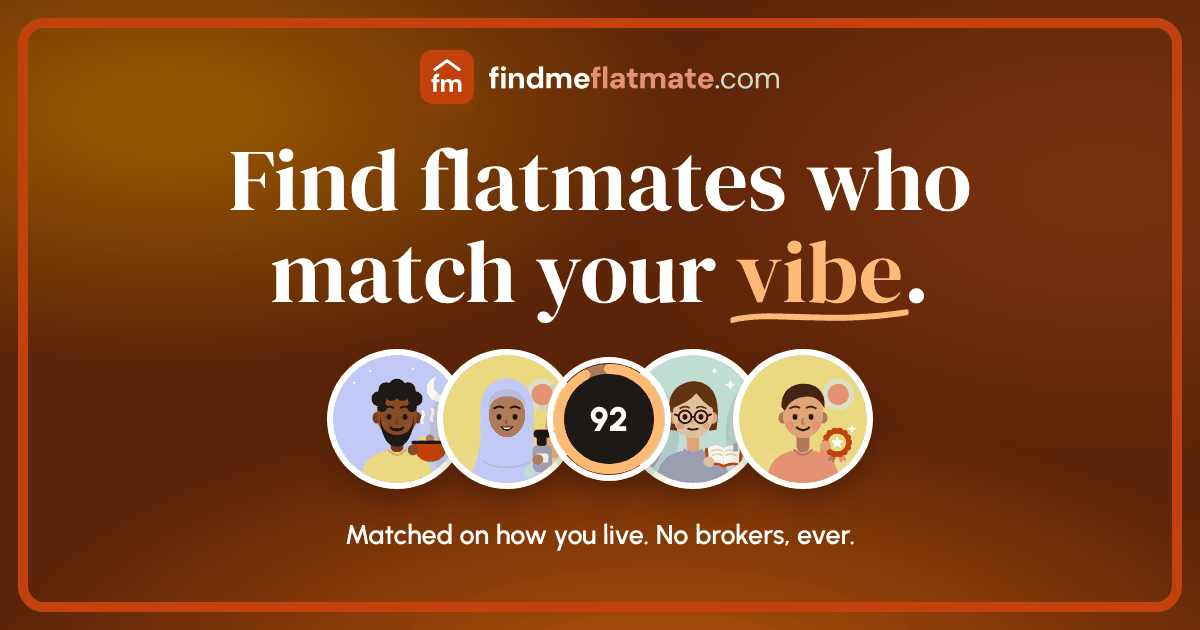
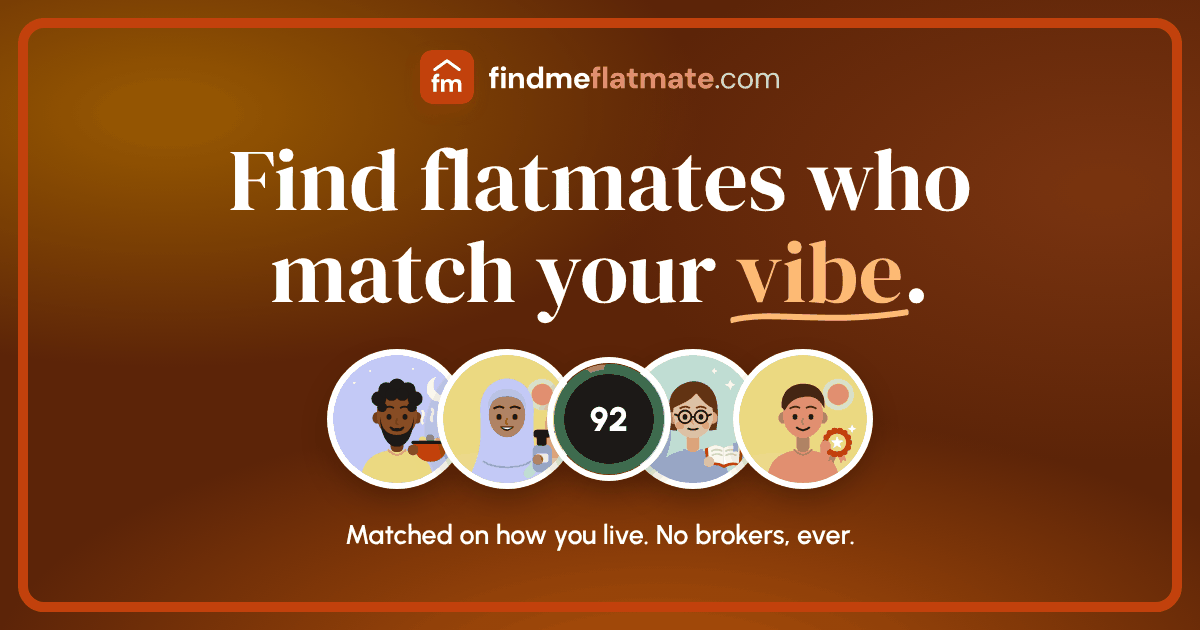
Reel look: King's three fixes (rings keep their colours, cream top bar when scrolled, first-page headline on two lines)
King's review of 18 Nov, recorded in priorities.md under item 00000000:
- The vibe score's ring follows ringColor again (green from 80, amber from
  60, grey under). Painted light orange, a strong match and a fair one
  looked the same.
- The top bar once scrolled is the page's cream at the strength it had; it
  was a white strip across the cream page.
- The first page's headline is clamp(38px, 10.2vw, 48px): two lines from
  390 wide, so the sign-up card, Continue and "I already have an account"
  sit higher than today at every phone size and the help button is clear
  of Continue. The story and the Coming soon page keep the bigger size.
og-image.png is redrawn (its ring is green again). README and p31/p26
follow; 32 suites, 864 checks pass.

Claude-Session: https://claude.ai/code/session_018BSL97VUyQwpm5qenYsiH6

Changed region(s): [[0.4625, 0.573, 0.555, 0.754]]

diff --git a/flatmates/tests/demo/p31.test.js b/flatmates/tests/demo/p31.test.js
@@ -11,6 +11,8 @@
 // (underlined by hand on the first page and the story), bigger serif headlines on a phone, rent in the serif, one ink
 // sheet on a home's page with light-orange ticks, and a deep warm brown inside a thin orange frame for a home's header
 // with no photo and for the pictures people share. The checks below hold both: what 16 Nov fixed, in 17 Nov's colours.
+// King's review of 18 Nov is held here too: the score rings keep the colours that say how strong a match is, the top
+// bar is cream once you scroll (p26), and the first page's headline keeps to two lines at 390 wide.
 // The logo is not part of the look (Kamal, 16 Nov: "App and website logo to stay the same as earlier", "App and website
 // logo color to stay same as earlier"): its files are his own of 9 Nov, and this suite holds them to that, byte for byte.
 const { chromium, devices } = require('playwright'), fs = require('fs'), path = require('path'), crypto = require('crypto');
@@ -136,7 +138,11 @@ const oldLeft = old => { const out = [];
       under: !!sr && sr.top > kr.top + kr.height * .6 && sr.width >= kr.width, hidden: svg && svg.getAttribute('aria-hidden'), size: parseFloat(getComputedStyle(h1).fontSize), lines: Math.round(h1.getBoundingClientRect().height / parseFloat(getComputedStyle(h1).lineHeight)) }; });
   ok(K.words === 'Find flatmates who match your vibe.' && K.kw === 'vibe' && K.n === 1 && K.colour === 'rgb(194, 65, 12)' && K.line === 'rgb(194, 65, 12)' && K.under && K.hidden === 'true' && K.draws === 'kwdraw',
     'the first page\'s headline says what it said, with one key word ("vibe") in the logo\'s orange and a line under it that draws itself once (a picture to a screen reader, not a word): ' + JSON.stringify(K));
-  ok(K.size >= 40 && K.size <= 48 && K.lines <= 3, 'on a phone that headline is the serif at ' + K.size + 'px (between 40 and 48), on ' + K.lines + ' lines');
+  ok(K.size >= 38 && K.size <= 48 && K.lines === 2, 'on a phone that headline is the serif at ' + K.size + 'px (between 38 and 48: a step under the story\'s), on two lines at 390 wide: ' + K.lines);
+  const first = await p.evaluate(() => { const r = e => e.getBoundingClientRect(), go = r(document.querySelector('.w-card .btn-primary')), have = r([...document.querySelectorAll('.w-card button, .w-card a')].find(e => /already have an account/i.test(e.textContent))), fab = r($('helpFab'));
+    return { card: Math.round(r(document.querySelector('.w-card')).top), goEnd: Math.round(go.bottom), haveEnd: Math.round(have.bottom), vh: innerHeight, helpOnGo: fab.left < go.right && fab.right > go.left && fab.top < go.bottom && fab.bottom > go.top }; });
+  ok(first.card <= 276 && first.goEnd <= 749 && first.haveEnd <= 799 && first.haveEnd < first.vh && !first.helpOnGo,
+    'so on a 390 x 844 phone the sign-up card, Continue and "I already have an account" sit no lower than they did on 16 Nov (276, 749, 799), and the help button is clear of Continue: ' + JSON.stringify(first));
   ok(!(await p.evaluate(oldLeft, OLD)).length && !(await p.evaluate(audit)).length, 'the first page: nothing in the light red, the aubergine, the cream or the older pastels, and every word reads: ' + (await p.evaluate(oldLeft, OLD)).concat(await p.evaluate(audit)).join(' | '));
   await p.screenshot({ path: O + '/p31-first-page.png' });
   // the page for people with a spare room and the moving-out sale page: their words were white on the band
@@ -263,7 +269,12 @@ const oldLeft = old => { const out = [];
       name: cs(c.querySelector('h3')).fontWeight, ring: (v => v && cs(v).stroke)(c.querySelector('.ring .val')), disc: (v => v && cs(v).fill)(c.querySelector('.ring circle')), btn: cs(document.querySelector('.btn')).fontWeight }; });
   ok(hc.card === 'rgb(255, 255, 255)' && hc.lifted && hc.price === '"DM Serif Display" 28px' && hc.per === 'Urbanist 12.5px rgb(87, 83, 78)' && hc.rupee === '₹' && hc.name === '800' && hc.btn === '800',
     'a home\'s card on Discover: white, lifted off the cream by a warm shadow; the rent in the serif at 28px with a small grey "/month"; the name and the buttons at 800: ' + JSON.stringify(hc));
-  ok(hc.ring === 'rgb(253, 186, 116)' && hc.disc === 'rgb(28, 25, 23)', 'the vibe score: a light-orange ring on its ink disc: ' + hc.ring);
+  const rings = await p.evaluate(() => { const tok = n => { const d = document.createElement('i'); d.style.color = `var(${n})`; document.body.appendChild(d); const c = getComputedStyle(d).color; d.remove(); return c; };
+    const want = n => n >= 80 ? tok('--ok') : n >= 60 ? tok('--mid') : tok('--text-3');
+    const all = [...document.querySelectorAll('#cards .card .ring')].map(r => { const n = parseInt(r.getAttribute('aria-label'), 10), got = getComputedStyle(r.querySelector('.val')).stroke; return { n, got, right: got === want(n) }; });
+    return { n: all.length, wrong: all.filter(x => !x.right).map(x => x.n + ' ' + x.got), kinds: [...new Set(all.map(x => x.got))], lt: tok('--orange-lt'), strong: all.filter(x => x.n >= 80).length, fair: all.filter(x => x.n >= 60 && x.n < 80).length }; });
+  ok(rings.n >= 5 && !rings.wrong.length && rings.strong >= 1 && rings.fair >= 1 && rings.kinds.length >= 2 && !rings.kinds.includes(rings.lt) && hc.disc === 'rgb(28, 25, 23)',
+    'the vibe score\'s ring keeps its meaning on its ink disc: green from 80, amber from 60, grey under (' + rings.strong + ' strong and ' + rings.fair + ' fair on Discover); never the look\'s light orange, which made a strong match and a fair one look the same: ' + JSON.stringify(rings.kinds) + ' ' + rings.wrong.join(' | '));
   // neither of our fonts has a rupee sign (a phone borrows it from a font of its own): beside the big serif figures it is set small, in the body face
   const rs = await p.evaluate(() => { const pp = document.querySelector('#cards .card .price-pill'), r = pp.querySelector('.rs'), cs = r && getComputedStyle(r);
     return { text: pp.textContent.replace(/\s+/g, ' ').trim(), sign: r && r.textContent, fam: cs && cs.fontFamily.slice(0, 8), weight: cs && cs.fontWeight, size: cs && parseFloat(cs.fontSize), of: parseFloat(getComputedStyle(pp).fontSize), firstInPill: r && pp.firstChild === r }; });

diff --git a/flatmates/index.html b/flatmates/index.html
@@ -2772,7 +2772,7 @@ input:focus, select:focus, textarea:focus{box-shadow:inset 0 0 0 2px var(--orang
      One rule: on cream a panel is white; inside a white card a panel is cream (or the quiet off-white);
    - the logo's orange: the main buttons, the small labels, links, and one key word in a main headline (.kw);
    - ink: text, what is selected, the score discs, and dark sheets. On ink: titles white, small text --on-ink-2,
-     chips --ink-chip with white words, and light orange (--orange-lt) for ticks, the score ring and the key word;
+     chips --ink-chip with white words, and light orange (--orange-lt) for ticks and the key word;
    - a deep warm brown inside a thin orange frame: only a home's header with no photo and the pictures people share;
    - bigger serif headlines on a phone; rent and prices in the serif; names, titles and buttons at 800.
    Green still means accepted, verified or "owes you", amber look twice, crimson danger; WhatsApp keeps its green.
@@ -2791,11 +2791,17 @@ input:focus, select:focus, textarea:focus{box-shadow:inset 0 0 0 2px var(--orang
 /* the top band: the page's own cream, flat (it was a peach wash over a white sheet). With no sheet coming up over
    its foot, the room kept for the sheet's rounded top goes too, so the first thing on the page sits higher */
 @media (max-width:720px){ .home-band{background:var(--band); padding-bottom:26px} .home-band::after{display:none} }
+/* the top bar once you have scrolled: the page's cream at the strength it had (it was a white strip across the cream
+   page, and the round white buttons on it lost their edge) */
+.app-head.scrolled{background:rgba(255,244,232,.94)}
+@media (max-width:720px){ .app-head.scrolled{background:rgba(255,244,232,.96)} }
 /* the first page on a phone: the same goes for the room kept above the sign-up card for the sheet that came up behind it */
 @media (max-width:900px){ .w-card{margin-top:22px} }
-/* type on a phone: the headline of the welcome page and the story, and the headline on each tab's band */
+/* type on a phone: the headline of the story and the Coming soon screen; the first page's, a step smaller so that it
+   keeps to two lines from 390 wide and the sign-up card stays up the screen; and the headline on each tab's band */
 @media (max-width:720px){
-  .w-copy h1, .st-slide h2, .hold-screen h2{font-size:clamp(40px, 11.5vw, 48px); line-height:1.04}
+  .st-slide h2, .hold-screen h2{font-size:clamp(40px, 11.5vw, 48px); line-height:1.04}
+  .w-copy h1{font-size:clamp(38px, 10.2vw, 48px); line-height:1.04}
   .home-band h1, .greet h1, .page-h h1{font-size:clamp(30px, 8.6vw, 36px); line-height:1.08}
 }
 /* headings inside cards and sheets */
@@ -2821,8 +2827,9 @@ input:focus, select:focus, textarea:focus{box-shadow:inset 0 0 0 2px var(--orang
 .kw-ul path{fill:none; stroke:var(--orange); stroke-width:9; stroke-linecap:round; stroke-dasharray:1; stroke-dashoffset:0}
 @media (prefers-reduced-motion:no-preference){ .kw-ul path{animation:kwdraw .55s ease-out .25s both} }
 @keyframes kwdraw{from{stroke-dashoffset:1} to{stroke-dashoffset:0}}
-/* the vibe score: the ring is light orange on its ink disc */
-.ring .val{stroke:var(--orange-lt)}
+/* the vibe score's ring keeps the colour that says how strong the match is (ringColor: green from 80, amber from 60,
+   grey under): it is not part of the look. For a few hours on 17 Nov every ring was the light orange, and a strong
+   match and a fair one looked the same (King's review, 18 Nov) */
 /* the story's little chat: your line is an ink bubble as wide as its words (it took the width of the round initial that
    shares its class name, and broke one word to a line) */
 .st-chat p.me{width:auto; height:auto; display:block; background:var(--ink); color:#fff}

diff --git a/flatmates/tests/demo/p26.test.js b/flatmates/tests/demo/p26.test.js
@@ -4,7 +4,8 @@
 // round corners; the bottom bar is a frosted pill and the screen you're on is a soft pastel pill. Our colours.
 // Since the look of 17 Nov 2026 (the reels') the band is flat: the page's own cream, on every screen, with no sheet
 // coming up over it; its headline is bigger and carries one key word in the logo's orange. The top bar is still part
-// of it while the greeting is under it, and the frosted white bar once you scroll past.
+// of it while the greeting is under it; once you scroll past, it is the same cream, frosted, with a soft shade (it was
+// a white strip across the cream page until King's review of 18 Nov).
 const { chromium } = require('playwright');
 const O = process.argv[2], ok = (c, m) => console.log((c ? 'PASS ' : 'FAIL ') + m), errs = [], U = 'http://localhost:8765/';
 const vibe = { sleep:2, clean:1, food:1, cook:1, smoke:0, drinks:1, guests:1, noise:0, social:1, sharing:1, work:0, pets:1, gen:'z' };
@@ -65,7 +66,7 @@ const bar = p => p.evaluate(() => { const tok = n => { const d = document.create
   await p.evaluate(() => scrollTo(0, 80)); await p.waitForTimeout(350); L = await look(p);
   ok(L.onBand && L.headBg === L.page, 'scrolled a little: the top bar still has the band\'s colour');
   await p.evaluate(() => scrollTo(0, 420)); await p.waitForTimeout(450); L = await look(p);
-  ok(!L.onBand && L.headBg !== L.page && /^rgba?\(255, 255, 255/.test(L.headBg), 'scrolled past the band: the top bar is the frosted white bar: ' + L.headBg);
+  ok(!L.onBand && L.headBg === 'rgba(255, 244, 232, 0.96)', 'scrolled past the band: the top bar is the page\'s cream, a little see-through (not a white strip across the cream page): ' + L.headBg);
   await p.screenshot({ path: O + '/p26-home-scrolled.png' });
   await p.evaluate(() => scrollTo(0, 0)); await p.waitForTimeout(450); L = await look(p);
   ok(L.onBand && L.headBg === L.page, 'back at the top: the band again');

diff --git a/flatmates/README.md b/flatmates/README.md
@@ -999,12 +999,15 @@ the end of the stylesheet; the layouts, the words, the login, the questions and 
   "Who you'd live with" and the household's answers sit on one ink sheet (`.ink-sheet`: a white serif title, one
   small grey line, dark chips `--ink-chip`, and a light-orange tick `--orange-lt` #FDBA74 on the answers you
   share), with the compatibility card white inside it; "Your flatmate type" on Profile is the other. At most one
-  on a screen. The vibe score's ring is that light orange on its ink disc.
+  on a screen. **The vibe score's ring is not part of the look:** it keeps the colour that says how strong the
+  match is (`ringColor`: green from 80, amber from 60, grey under), on its ink disc. For a few hours on 17 Nov
+  every ring was the light orange, and a strong match and a fair one looked the same (King's review, 18 Nov).
 - **A deep warm brown** (`--brown` #5C2408 with soft glows, `--dark-hero`) inside a thin orange frame is only for a
   home's header while it has no photo, the pictures people share (`cardBackdrop`) and `og-image.png`. The words on
   it are white, in the serif; on `og-image.png` the key word is light orange with the hand-drawn line.
-- **Type, on a phone:** the headline of the welcome page, the story and the Coming soon page is the serif at
-  `clamp(40px, 11.5vw, 48px)`, line-height 1.04; the headline on each tab's band `clamp(30px, 8.6vw, 36px)`;
+- **Type, on a phone:** the headline of the story and the Coming soon page is the serif at
+  `clamp(40px, 11.5vw, 48px)`, line-height 1.04; the first page's is a step smaller, `clamp(38px, 10.2vw, 48px)`,
+  so that it keeps to two lines from 390 wide; the headline on each tab's band `clamp(30px, 8.6vw, 36px)`;
   headings inside sheets 24px. Rent is in the serif: 28px on a home's card, 32px in the bar at the foot of a home's
   page ("/month" stays small and grey). Neither of our fonts has a rupee sign, so a phone borrows it from a font
   of its own; beside those big serif figures the sign is set small (16px) in the body face, where it looks meant
@@ -1012,12 +1015,13 @@ the end of the stylesheet; the layouts, the words, the login, the questions and 
   is 16, small 14, captions 12.5, as before.
 - **Room:** with no sheet coming up over the band, the space kept for its round top went: the first thing on a
   screen starts 17px higher on a 360 x 640 phone than it did, bigger headline included. No headline runs past
-  three lines at 320 wide. On the first page the same space above the sign-up card went; its headline takes three
-  lines at 390 wide where it took two, so the card starts 38px lower there, and Continue and "I already have an
-  account" still show on a 390 x 844 screen.
+  three lines at 320 wide. On the first page the same space above the sign-up card went, so the card, Continue
+  and "I already have an account" sit a little higher than they did at every phone size (19px at 390 wide), and
+  the help button is clear of Continue.
 - Green still means accepted, verified or "owes you", amber look twice, crimson danger; WhatsApp keeps its green.
 Checks: `p31` (the palette on every screen, the key words, the underline, the ink sheet, the brown header and
-pictures, no panel melted into what it sits on, small phones, the Android bars), `p8`, `p26`, `p27`.
+pictures, no panel melted into what it sits on, small phones, the Android bars, the rings' colours), `p8`, `p26`,
+`p27`.
 
 Under it is the look of 16 Nov 2026, the logo's own colours, set by Kamal in three steps:
 1. after looking at another app, "copy style and colors of dwelo. Change the orange color to light red color", and
@@ -1089,8 +1093,10 @@ as it stands today, with 17 Nov's cream where 16 Nov had a white page and peach 
     the originals, byte for byte, and checks the icons' orange.
   - Since later that day the app's accent is this same orange (see above), taken from the logo. The logo's files
     still never change: if the look changes again, the logo stays.
-- **Top bar:** no background or line of its own; it sits on the cream page and turns a frosted white with a soft
-  shade once you scroll (on a phone it is part of the band until then, see "The band"). Requests (a bell), Messages and, on phones, Saved (a
+- **Top bar:** no background or line of its own; it sits on the cream page, and once you scroll it is that cream,
+  a little see-through, with a soft shade (on a phone it is part of the band until then, see "The band"). It was
+  white once scrolled until 18 Nov: a white strip across a cream page, on which the round white buttons lost
+  their edge. Requests (a bell), Messages and, on phones, Saved (a
   heart) are round white buttons with soft shadows, dark while you're on that screen; your initial is a dark
   circle; badges are orange with white numbers.
 - **Sign-up:** a serif headline; the three choices are cream tiles in the white card (I need a room and Posting a
@@ -1107,8 +1113,8 @@ as it stands today, with 17 Nov's cream where 16 Nov had a white page and peach 
   - Each screen's band still names its old tint (`data-band`: lav, butter, mint or blush); all four are the cream.
   - On the two home screens the band holds the greeting. On Splits, Market, Tribe, Escape and Account it
     is the panel that was already there, now edge to edge. On Saved, Requests, Post and Messages it holds the title.
-  - While you scroll, the top bar is part of the band until the band has gone under it, then it is the frosted
-    white bar. Inside a Splits group and on a home's page there is no band.
+  - While you scroll, the top bar is part of the band until the band has gone under it, then it is the cream bar
+    with its soft shade. Inside a Splits group and on a home's page there is no band.
   - Computers keep the plain greeting and the rounded panels inside the page.
 - **Bottom bar (phones)** (15 Nov, Kamal: "the bottom bar looks cool"): a floating frosted pill above the bottom
   edge; what's behind it shows through softly. Every place keeps its icon and its name. The screen you're on is a
